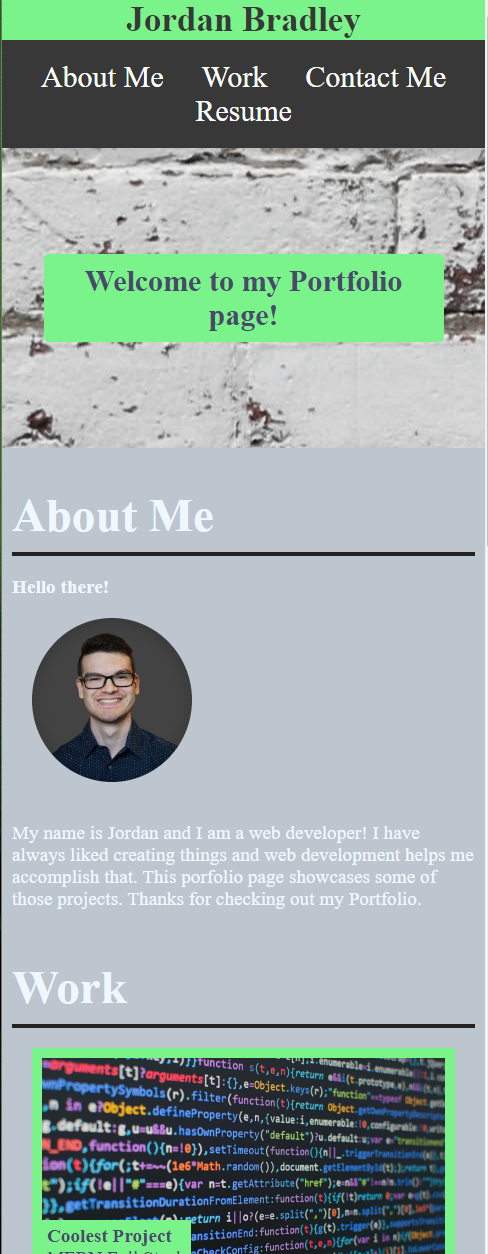
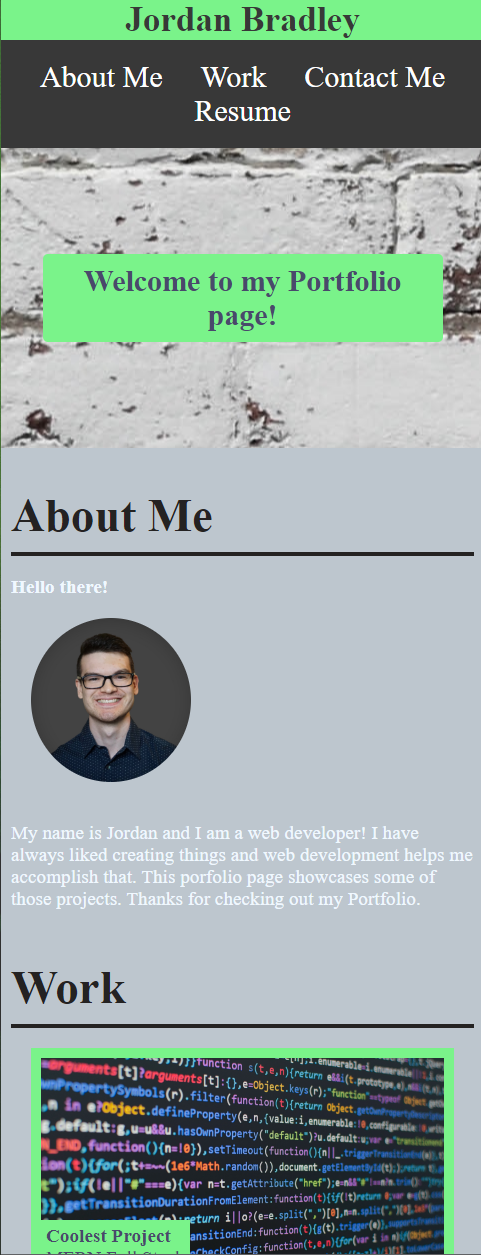
Fixed section color in css file and fixed screenshots in readME

diff --git a/Assets/css/style.css b/Assets/css/style.css
@@ -48,7 +48,7 @@ nav a {
     
 }
 
-/* Hero Section with background image -- image from unsplash.com */
+/* Hero Section with background image - image from unsplash.com */
 #hero-section {
     display: flex;
     justify-content: center;
@@ -87,6 +87,7 @@ main {
 
 /* Container for the each sections title or h3 class */
 .section-title {
+    color:rgb(36, 34, 34);
     padding: 10px 0 10px 0;
     font-size: 40px; 
 }
@@ -262,7 +263,6 @@ main {
     }
     /* Title for each section heading - helps evenly space out the heading on the left */
     .section-title {
-        color:rgb(36, 34, 34);
         width: 150px;
         text-align: right;
         margin-right: 20px;
